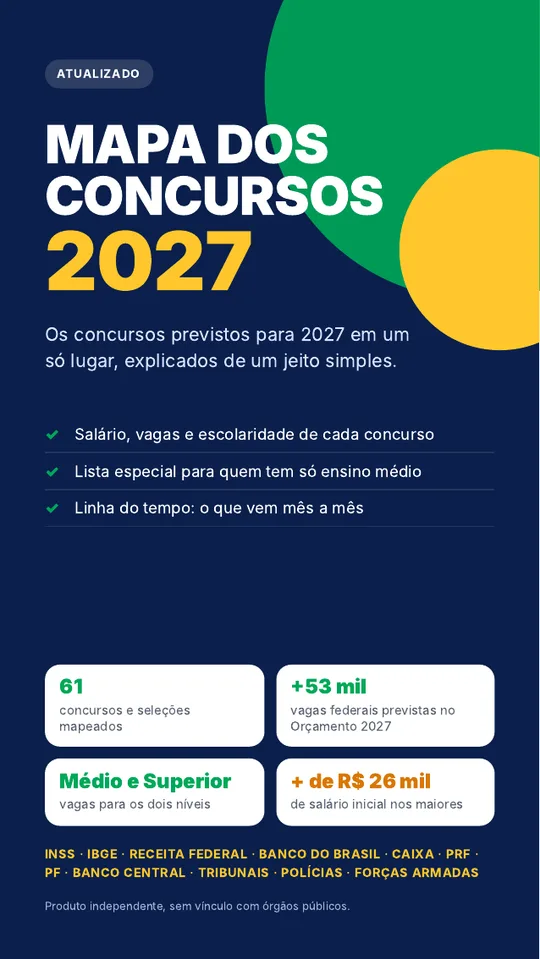
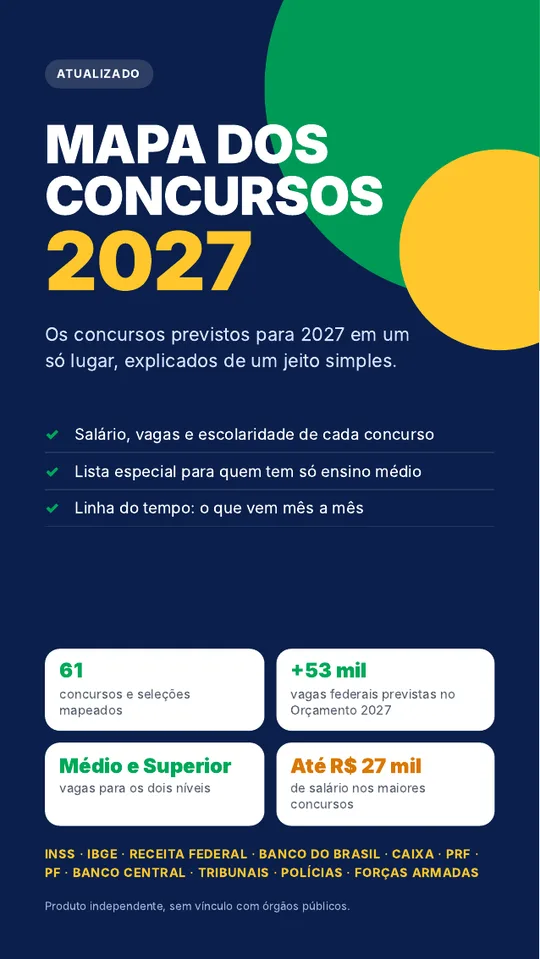
Destaca salários de até R$ 27 mil, troca 61 por mais de 60 e simplifica a garantia
Claude-Session: https://claude.ai/code/session_01KShH4vfQdb9ymvFid4x7Bn

Changed region(s): [[0.0593, 0.6653, 0.9185, 0.8467]]

diff --git a/index.html b/index.html
@@ -4,7 +4,7 @@
 <meta charset="utf-8">
 <meta name="viewport" content="width=device-width, initial-scale=1">
 <title>Mapa dos Concursos 2027: os concursos previstos com salário, vagas e escolaridade</title>
-<meta name="description" content="61 concursos e seleções previstos para 2027 em um só lugar: INSS, IBGE, Receita Federal, Banco do Brasil, Caixa e mais. Salário, vagas e escolaridade de cada um. PDF para celular.">
+<meta name="description" content="Mais de 60 concursos e seleções previstos para 2027 em um só lugar: INSS, IBGE, Receita Federal, Banco do Brasil, Caixa e mais. Salário, vagas e escolaridade de cada um. PDF para celular.">
 <meta property="og:title" content="Mapa dos Concursos 2027">
 <meta property="og:description" content="Os concursos previstos para 2027 em um só lugar, com salário, vagas e escolaridade.">
 <meta property="og:image" content="/img/og.jpg">
@@ -42,7 +42,7 @@ h2 em{font-style:normal;color:var(--green)}
 .center{text-align:center}
 
 /* topo */
-.topbar{background:var(--yellow);color:var(--navy);text-align:center;font-weight:800;font-size:13px;letter-spacing:.3px;padding:9px 12px}
+.topbar{background:var(--yellow);color:var(--navy);text-align:center;font-weight:800;font-size:12.5px;letter-spacing:.3px;padding:9px 12px}
 
 /* hero */
 .hero{background:var(--navy);color:#fff;padding:40px 0 52px;position:relative;overflow:hidden}
@@ -159,6 +159,19 @@ footer a{color:#cdd8f6}
 .sticky .p span{font-size:12px;color:var(--muted)}
 .sticky .cta{padding:14px 10px;font-size:16px;box-shadow:0 4px 0 var(--green2)}
 
+
+.sal-hero{display:table;margin:-6px 0 16px;background:var(--yellow);color:var(--navy);font-weight:800;font-size:14px;padding:7px 14px;border-radius:30px}
+.sal-hero b{font-weight:900}
+.salarios{background:linear-gradient(180deg,#fff8e1 0%,#fff 100%)}
+.sal-top{text-align:center;font-weight:900;letter-spacing:2px;color:var(--navy);font-size:15px}
+.sal-big{text-align:center;font-size:64px;font-weight:900;color:#d97706;letter-spacing:-2px;line-height:1;margin:4px 0 18px}
+.sal-grupo{font-weight:900;color:var(--navy);font-size:15px;letter-spacing:.3px;margin:22px 0 6px;padding-bottom:6px;border-bottom:2px solid var(--navy)}
+.sal-l{display:flex;justify-content:space-between;align-items:center;gap:12px;padding:11px 0;border-bottom:1px solid var(--line)}
+.sal-l span{font-weight:700;color:var(--ink);font-size:16px;line-height:1.2}
+.sal-l small{display:block;font-weight:500;color:var(--muted);font-size:13px;margin-top:2px}
+.sal-l b{flex:0 0 auto;color:var(--green2);font-weight:900;font-size:17px;background:#e7f8ef;padding:5px 10px;border-radius:10px}
+.sal-nota{font-size:12.5px;color:var(--muted);margin:12px 0 20px;text-align:center}
+
 @media (min-width:760px){
   .hero h1{font-size:44px}
   h2{font-size:34px}
@@ -168,14 +181,15 @@ footer a{color:#cdd8f6}
 </head>
 <body>
 
-<div class="topbar">📢 ATUALIZADO: CONCURSOS PREVISTOS PARA 2027</div>
+<div class="topbar">💰 CONCURSOS 2027: SALÁRIOS DE ATÉ R$ 27 MIL</div>
 
 <!-- ================= HERO ================= -->
 <header class="hero">
   <div class="wrap">
     <div class="tag">MAPA DOS CONCURSOS 2027</div>
+    <div class="sal-hero">💰 Salários de <b>até R$ 27 mil</b></div>
     <h1>Saiba quais concursos vêm em 2027 <span>antes de todo mundo</span> e comece a estudar na frente</h1>
-    <p class="sub"><b>61 concursos e seleções previstos</b>, entre eles INSS, IBGE, Receita Federal, Banco do Brasil e Caixa, com <b>salário, vagas e escolaridade</b> de cada um. Tudo em um PDF simples de ler no celular.</p>
+    <p class="sub"><b>Mais de 60 concursos e seleções previstos</b>, com <b>salários de até R$ 27 mil</b>, entre eles INSS, IBGE, Receita Federal, Banco do Brasil e Caixa, com <b>salário, vagas e escolaridade</b> de cada um. Tudo em um PDF simples de ler no celular.</p>
     <div class="mock"><div class="phone"><img src="/img/capa.webp" alt="Capa do Mapa dos Concursos 2027 no celular" width="540" height="959" fetchpriority="high"></div></div>
     <a class="cta js-cta" href="#oferta">QUERO MEU MAPA DOS CONCURSOS<small>por apenas R$ 19,90 ou 6x de R$ 3,73</small></a>
     <div class="micro"><span>⚡ Acesso imediato</span><span>📱 PDF para celular</span><span>🛡 Garantia de 7 dias</span></div>
@@ -185,12 +199,38 @@ footer a{color:#cdd8f6}
 <!-- ================= NÚMEROS ================= -->
 <div class="stats">
   <div class="wrap grid2">
-    <div class="stat"><b>61</b><span>concursos e seleções mapeados</span></div>
+    <div class="stat"><b>+ de 60</b><span>concursos e seleções mapeados</span></div>
     <div class="stat"><b>+53 mil</b><span>vagas federais previstas no Orçamento 2027</span></div>
     <div class="stat"><b>Médio e Superior</b><span>vagas para os dois níveis de escolaridade</span></div>
-    <div class="stat o"><b>+ de R$ 26 mil</b><span>de salário inicial nos maiores concursos</span></div>
+    <div class="stat o"><b>Até R$ 27 mil</b><span>de salário nos maiores concursos</span></div>
   </div>
 </div>
+
+
+<!-- ================= SALÁRIOS ================= -->
+<section class="salarios">
+  <div class="wrap">
+    <div class="sal-top">SALÁRIOS DE ATÉ</div>
+    <div class="sal-big">R$ 27 mil</div>
+    <h2 class="center">Veja quanto pagam alguns concursos do Mapa</h2>
+    <p class="lead center">Salários iniciais informados nos últimos editais e tabelas oficiais.</p>
+    <div class="sal-grupo">🎓 Nível superior</div>
+    <div class="sal-l"><span>Polícia Federal <small>Delegado e Perito</small></span><b>até R$ 27,8 mil</b></div>
+    <div class="sal-l"><span>Receita Federal <small>Auditor-Fiscal</small></span><b>R$ 22,9 mil</b></div>
+    <div class="sal-l"><span>Banco Central <small>Auditor</small></span><b>cerca de R$ 20 mil</b></div>
+    <div class="sal-l"><span>ABIN <small>Oficial de Inteligência</small></span><b>até R$ 19,9 mil</b></div>
+    <div class="sal-l"><span>TRTs <small>Analista Judiciário</small></span><b>R$ 16 mil</b></div>
+    <div class="sal-l"><span>PRF <small>Policial Rodoviário Federal</small></span><b>R$ 12,2 mil</b></div>
+    <div class="sal-grupo">📘 Só ensino médio</div>
+    <div class="sal-l"><span>TRTs <small>Técnico Judiciário</small></span><b>R$ 9,7 mil</b></div>
+    <div class="sal-l"><span>Banco Central <small>Técnico</small></span><b>R$ 8,3 mil</b></div>
+    <div class="sal-l"><span>Banco do Brasil <small>Escriturário, com benefícios</small></span><b>R$ 6,2 mil</b></div>
+    <div class="sal-l"><span>INSS <small>Técnico do Seguro Social</small></span><b>R$ 6 mil</b></div>
+    <div class="sal-l"><span>PRF <small>Agente Administrativo</small></span><b>R$ 5,5 mil</b></div>
+    <p class="sal-nota">Valores aproximados. Os salários dos novos editais podem mudar.</p>
+    <a class="cta js-cta" href="#oferta">QUERO VER TODOS OS SALÁRIOS<small>Mapa completo por R$ 19,90</small></a>
+  </div>
+</section>
 
 <!-- ================= DOR ================= -->
 <section>
@@ -244,7 +284,7 @@ footer a{color:#cdd8f6}
   <div class="wrap">
     <h2>O que você recebe</h2>
     <ul class="check">
-      <li><span><b>61 concursos e seleções</b> do Brasil todo: federais, bancos, tribunais, polícias, Forças Armadas, estados e prefeituras</span></li>
+      <li><span><b>Mais de 60 concursos e seleções</b> do Brasil todo: federais, bancos, tribunais, polícias, Forças Armadas, estados e prefeituras</span></li>
       <li><span><b>Salário, vagas, escolaridade, local e banca</b> de cada concurso</span></li>
       <li><span><b>A situação de cada um:</b> edital publicado, autorizado, pedido feito ou previsto</span></li>
       <li><span><b>Lista especial "Só ensino médio"</b> para quem não tem faculdade</span></li>
@@ -286,7 +326,8 @@ footer a{color:#cdd8f6}
     <div class="box">
       <div class="prod"><img src="/img/capa.webp" alt="" width="540" height="959" loading="lazy"><div><b>Mapa dos Concursos 2027</b><span>PDF para celular · acesso imediato</span></div></div>
       <ul>
-        <li>61 concursos com salário, vagas e escolaridade</li>
+        <li>Mais de 60 concursos com salário, vagas e escolaridade</li>
+        <li>Salários de até R$ 27 mil</li>
         <li>Lista "Só ensino médio"</li>
         <li>Os 10 mais aguardados de 2027</li>
         <li>Linha do tempo mês a mês</li>
@@ -309,7 +350,7 @@ footer a{color:#cdd8f6}
   <div class="wrap">
     <div class="garantia">
       <div class="selo"><b>7</b><span>DIAS</span></div>
-      <p><b>Garantia de 7 dias.</b> Se você não gostar do Mapa por qualquer motivo, é só pedir o reembolso em até 7 dias e você recebe 100% do seu dinheiro de volta. Sem perguntas.</p>
+      <p><b>Garantia de 7 dias.</b><br>Compra 100% segura, processada pela Hotmart.</p>
     </div>
   </div>
 </section>
@@ -323,7 +364,6 @@ footer a{color:#cdd8f6}
     <details><summary>Esses concursos vão acontecer com certeza?</summary><p>Não dá para garantir, e quem garante está mentindo. Por isso o Mapa mostra a situação de cada concurso: alguns já têm edital publicado, outros estão autorizados e outros ainda são previsões. Assim você sabe exatamente em que pé está cada um. A regra que vale é sempre a do edital oficial.</p></details>
     <details><summary>O Mapa é do governo?</summary><p>Não. É um produto independente, sem vínculo com o governo, órgãos públicos ou bancas. As informações foram reunidas a partir de fontes públicas, como o Projeto de Lei Orçamentária 2027, as portarias de autorização e a imprensa especializada.</p></details>
     <details><summary>Tenho só ensino médio. Serve para mim?</summary><p>Serve, e muito! O Mapa tem uma lista especial só com concursos para quem tem ensino médio, como INSS, Banco do Brasil, Caixa, tribunais, polícias e Forças Armadas.</p></details>
-    <details><summary>E se eu não gostar?</summary><p>Você tem 7 dias de garantia. É só pedir o reembolso pela própria Hotmart e você recebe todo o seu dinheiro de volta.</p></details>
   </div>
 </section>
 
@@ -331,7 +371,7 @@ footer a{color:#cdd8f6}
 <section>
   <div class="wrap center">
     <h2>2027 vai chegar de qualquer jeito.<br><em>Você vai estar preparado?</em></h2>
-    <p class="lead">Por menos que um lanche, você descobre quais concursos vêm aí e começa a se preparar antes de todo mundo.</p>
+    <p class="lead">Por menos que um lanche, você descobre quais concursos vêm aí, com salários de até R$ 27 mil, e começa a se preparar antes de todo mundo.</p>
     <a class="cta js-cta" href="#oferta">QUERO MEU MAPA POR R$ 19,90<small>ou 6x de R$ 3,73 · acesso imediato</small></a>
     <div class="micro dark"><span>⚡ Acesso imediato</span><span>🛡 Garantia de 7 dias</span><span>🔒 Compra segura</span></div>
   </div>
